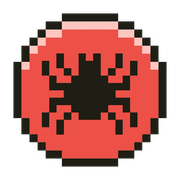
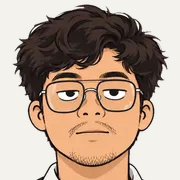
feat: browser tab shows Jerwin's drawing and just his name
- Tab icons (icon.png, apple-icon.png, favicon.ico) are the head-and-shoulders
  drawing on a round paper background, generated by scripts/make-icons.mjs.
- Title is "Jerwin Lucero" (also for link previews); sub-pages keep
  "Projects — Jerwin Lucero".
- tab.test.ts guards the title and the icons.

diff --git a/src/app/tab.test.ts b/src/app/tab.test.ts
@@ -1,0 +1,42 @@
+import { test } from "node:test";
+import assert from "node:assert/strict";
+import { existsSync, readFileSync } from "node:fs";
+import { site } from "@/content/data/site";
+
+// The browser tab: Jerwin's drawing as the icon, and just his name as the title (2026-11-05).
+const layout = readFileSync("src/app/layout.tsx", "utf8");
+
+test("the tab title is just the name (no role line)", () => {
+  assert.match(layout, /const title = site\.shortName;/);
+  assert.doesNotMatch(layout, /site\.focus/);
+  assert.equal(site.shortName, "Jerwin Lucero");
+});
+
+test("sub-pages read 'Projects — Jerwin Lucero' (name last)", () => {
+  assert.match(layout, /template: `%s — \$\{site\.shortName\}`/);
+});
+
+test("the tab icons are the drawing, in every size browsers ask for", () => {
+  for (const f of ["icon.png", "apple-icon.png", "favicon.ico"]) assert.ok(existsSync(`src/app/${f}`), `${f} missing: run node scripts/make-icons.mjs`);
+});
+
+test("favicon.ico holds 16, 32 and 48px images", () => {
+  const ico = readFileSync("src/app/favicon.ico");
+  assert.equal(ico.readUInt16LE(2), 1, "not an icon file");
+  const n = ico.readUInt16LE(4);
+  const sizes = Array.from({ length: n }, (_, i) => ico[6 + 16 * i]);
+  assert.deepEqual(sizes, [16, 32, 48]);
+});
+
+test("icon.png is the drawing, not the old red pixel-bug icon: 256px, lots of skin tone, circular", async () => {
+  const sharp = (await import("sharp")).default;
+  const { data, info } = await sharp("src/app/icon.png").ensureAlpha().raw().toBuffer({ resolveWithObject: true });
+  assert.ok(info.width >= 256);
+  let skin = 0;
+  for (let i = 0; i < data.length; i += 4) {
+    const [r, g, b] = [data[i], data[i + 1], data[i + 2]];
+    if (r > 190 && g > 130 && b > 80 && r - b > 50 && r > g && g > b) skin++;
+  }
+  assert.ok(skin / (info.width * info.height) > 0.12, `only ${((100 * skin) / (info.width * info.height)).toFixed(1)}% skin tone`);
+  assert.equal(data[3], 0, "the corner should be transparent (round icon)");
+});

diff --git a/src/app/layout.tsx b/src/app/layout.tsx
@@ -15,7 +15,7 @@ const serif = Source_Serif_4({
   axes: ["opsz"],
 });
 
-const title = `${site.shortName} — ${site.focus}`;
+const title = site.shortName; // the tab and link previews say just the name; the description carries the rest
 
 export const metadata: Metadata = {
   metadataBase: new URL(site.url),
